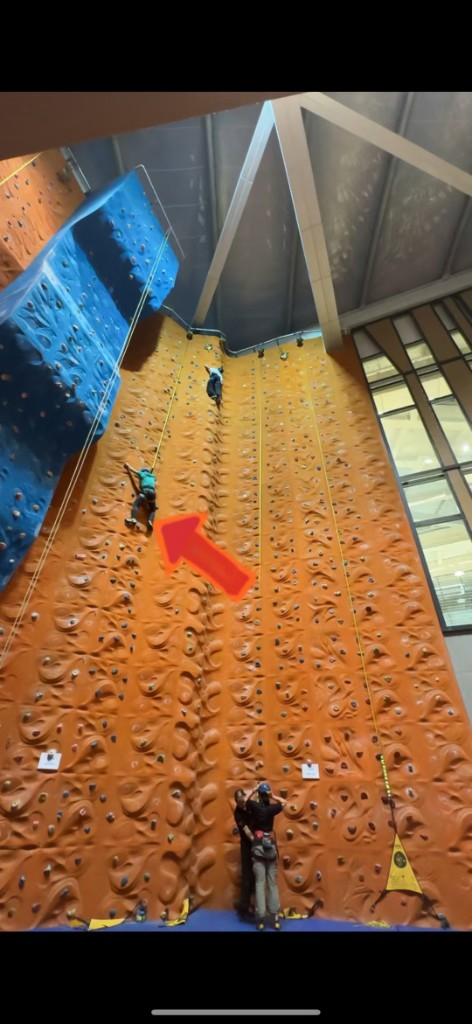
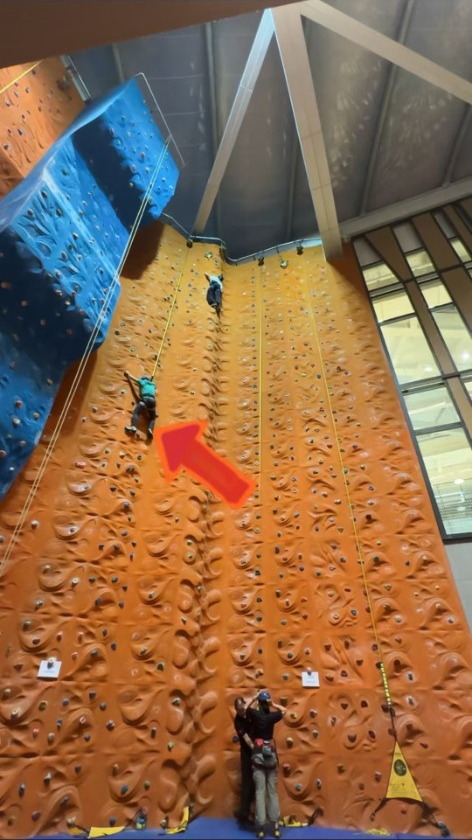
Shorten the Aberdeen line and crop black bars from the climbing photo.

diff --git a/education/index.html b/education/index.html
@@ -74,7 +74,7 @@
       <h3>University of Aberdeen</h3>
       <span class="entry-period">Jul — Sep 2023</span>
     </div>
-    <p class="entry-sub"><em>Summer School in Applied Technology and Data Science</em> <span class="mid">·</span> Aberdeen, Scotland</p>
+    <p class="entry-sub"><em>Summer School</em> <span class="mid">·</span> Aberdeen, Scotland</p>
     <p class="entry-note">Summer school · funded by Nanjing Agricultural University</p>
   </li>
   <li class="entry">

diff --git a/src/content/education.js b/src/content/education.js
@@ -31,7 +31,7 @@ export const education = {
       {
         school: 'University of Aberdeen',
         note: 'Summer school · funded by Nanjing Agricultural University',
-        degree: 'Summer School in Applied Technology and Data Science',
+        degree: 'Summer School',
         period: 'Jul — Sep 2023',
         place: 'Aberdeen, Scotland',
       },
